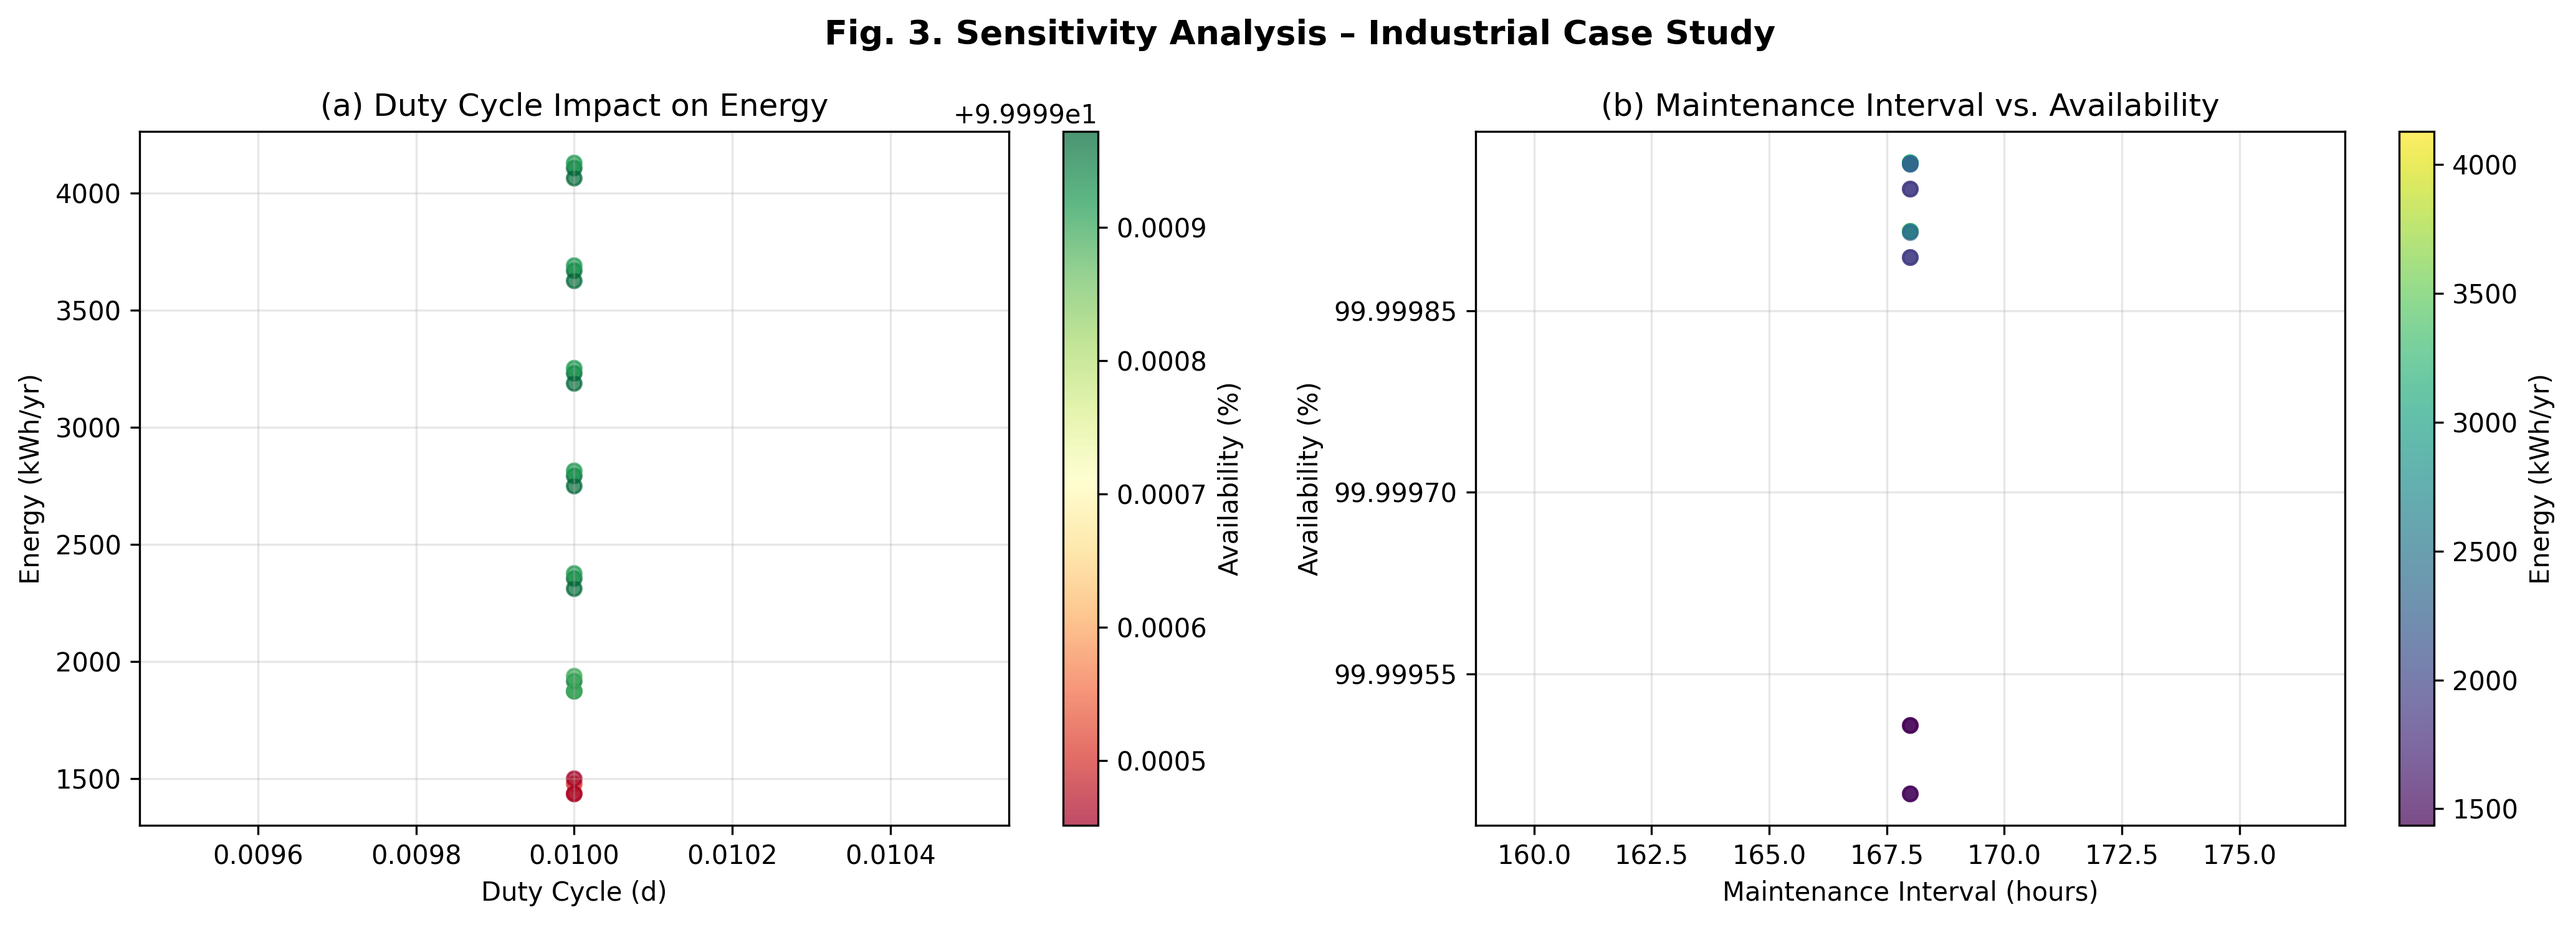
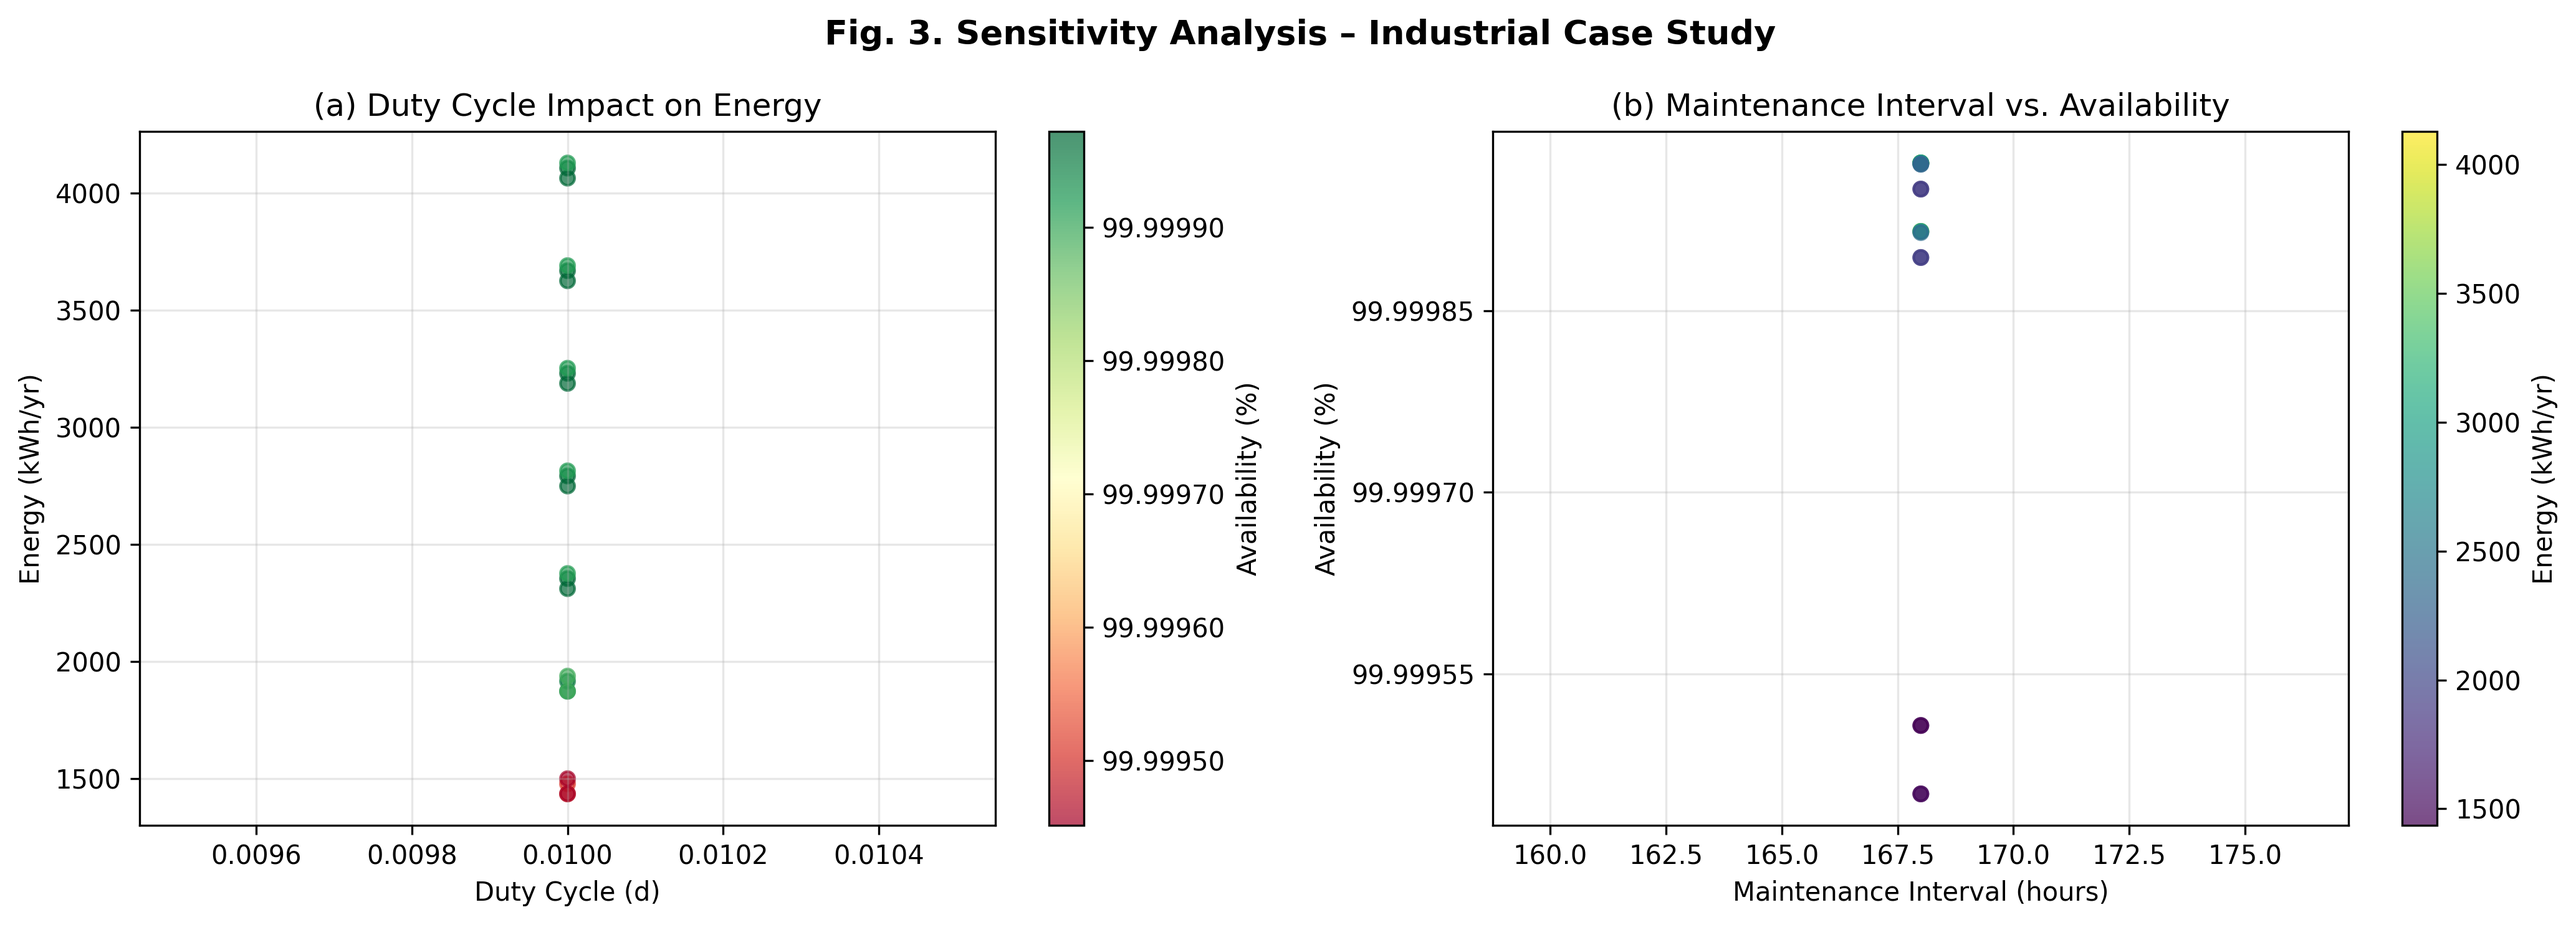
Plain availability labels on the Figure 3 colorbar

diff --git a/src/visualizations.py b/src/visualizations.py
@@ -171,6 +171,7 @@ def plot_sensitivity_analysis(all_results: dict, output_dir: str = "output"):
     sc = ax.scatter(sol[:, 1], energy, c=avail, s=30, cmap="RdYlGn", alpha=0.7)
     cb = plt.colorbar(sc, ax=ax)
     cb.set_label("Availability (%)")
+    cb.ax.yaxis.set_major_formatter(FormatStrFormatter("%.5f"))
     ax.set_xlabel("Duty Cycle (d)")
     ax.set_ylabel("Energy (kWh/yr)")
     ax.set_title("(a) Duty Cycle Impact on Energy")
